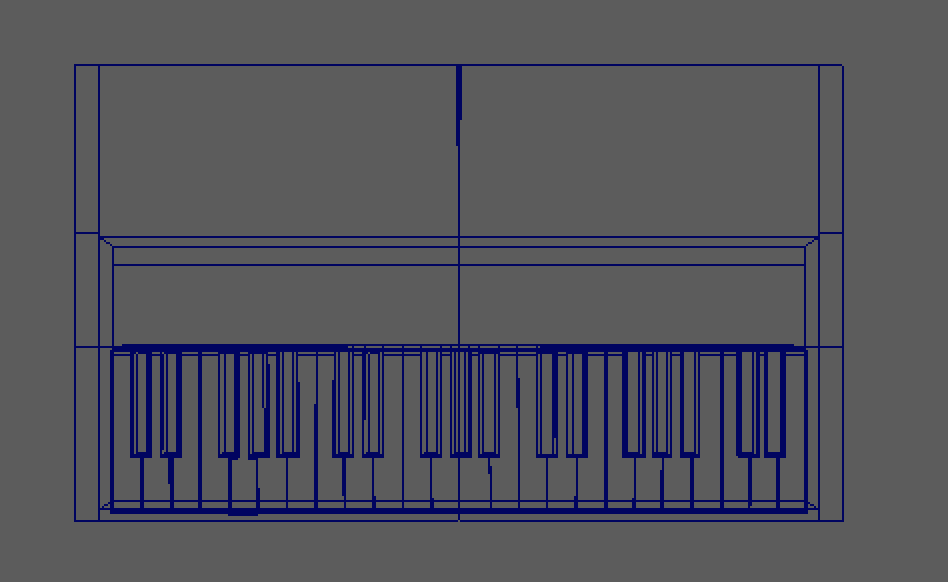
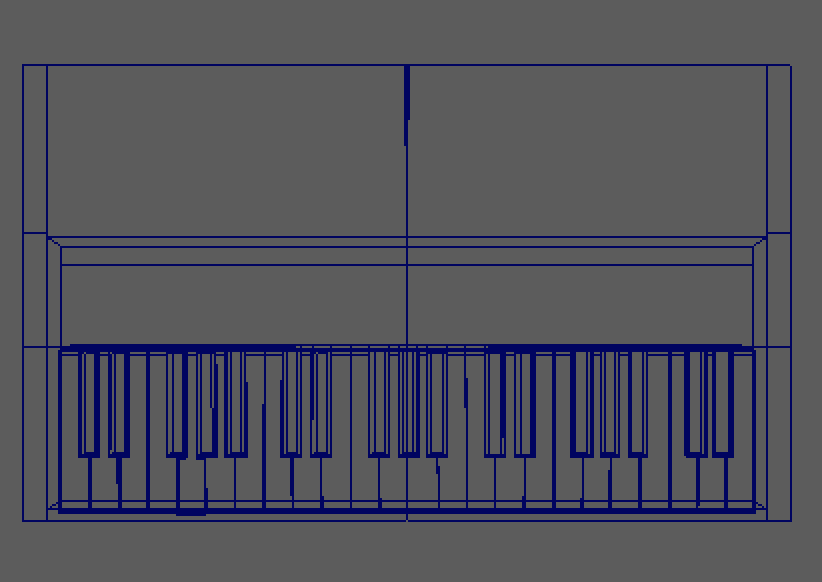
added the piano render page and connected it over
___

diff --git a/l_chun/pianorender.html b/l_chun/pianorender.html
@@ -8,7 +8,7 @@
 <style>
 .headimg2{
   margin-top: 30px;
-  background-image: url(img/water-lily-2020/lily_render1.jpg);
+  background-image: url(img/brain_house/piano/painoss2.png);
   background-repeat:no-repeat;
   padding: 250px;
   flex-wrap:nowrap;
@@ -44,38 +44,30 @@
 
 
 
- <p class="text flex"> An image I created out of my imagination of a waterlily pond. </p>
-<!--
+ <p class="text flex"> A VR piano created for a game piece of Loci House. When you press one of the keys a music note appears out of the keys.</p>
+	<br>
+	<img src="img/brain_house/piano/pain_vid.mp4"style="width:700px; ">
+	<br>
 
-<p class="text flex"> For the event, I teamed up with Anna Wong to create chocolates to enjoy. I chose to make jack-o-bears, modeled in maya and 3D printed. The print was then submerged into silicone to create a mold to pour chocolate into. </p>
+  	<p class="text flex"> The initial model was created in Maya.</p>
 
 <div class="subcontainer">
 	<div class="containleft">
-		<img src="img/halloween_choco_bears/silo_prep2.jpg"class="big">
+		<img src="img/brain_house/piano/wireframe_piano.png"class="big">
 	</div>
 	<div class="containright">
-		<img src="img/halloween_choco_bears/silo_pour2.jpg"class="big">
+		<img src="img/brain_house/piano/wireframe_piano2.png"class="big">
 	</div>
 </div>
 
-<div class="subcontainer">
-	<div class="containleft">
-		<img src="img/halloween_choco_bears/silo_first_pour.JPG"class="big">
-	</div>
-	<div class="containright">
-			<img src="img/halloween_choco_bears/silo_first_pour2.JPG"class="big">
-	</div>
-</div>
+<!-- <div class="subcontainer"> -->
+	<!-- <div class="containleft"> -->
 
-<div class="subcontainer">
-	<div class="containleft">
-		<img src="img/halloween_choco_bears/first_choco.JPG"class="big">
-	</div>
-	<div class="containright">
-		<img src="img/halloween_choco_bears/orange_choco2.jpg"class="big">
-	</div>
-</div> -->
-
+	<!-- </div> -->
+	<!-- <div class="containright"> -->
+			<!-- <img src="img/_/_"class="big"> -->
+	<!-- </div> -->
+<!-- </div> -->
 
 <!--
 <div class="subcontainer">
@@ -87,40 +79,6 @@
 			<img src="img/garden_of_people/red_maple.jpg"class="big">
 	</div>
 </div> -->
-
-
-
-
-
-
-<!--
-	<div class="subcontainer">
-		<div class="containleft">
-			<img src="img/garden_of_people/quick-cherry-tree.png"class="big">
-		</div>
-		<div class="containright">
-			Here is a screenshot of the cherry tree.
-		</div>
-	</div>
-
-	<div class="subcontainer">
-		<div class="containleft">
-			<img src="img/garden_of_people/tori-gate.png" >
-		</div>
-		<div class="containright">
-			Here is a screenshot of the main scene.
-		</div>
-	</div>
-
-	<div class="subcontainer">
-		<div class="containleft">
-			<img src="img/garden_of_people/mapletree.png">
-		</div>
-		<div class="containright">
-			Here is a screenshot of the project from another angle.
-		</div>
-	</div> -->
-
 
 
 </body>

diff --git a/l_chun/renders.html b/l_chun/renders.html
@@ -35,12 +35,12 @@
   <div class="flexbox_gallery">
 		<a href="lotus_render2020.html"><img src="../img/water-lily-2020/tnwatlily2020.jpg" class="imgmain big videohover"></a>
   	<!-- <a href="p5.html"> <img src="img/orchid_light/tnorchidled.jpg"type="img/jpg" class="imgmain big"></a> -->
-    <a href="#"> <img src="img/brain_house/piano/tnpiano.png"type="img/jpg" class="imgmain big"></a>
+    <a href="pianorender.html"> <img src="img/brain_house/piano/tnpiano.png"type="img/jpg" class="imgmain big"></a>
     <a href="lamplight.html"> <img src="img/lamp/tnlamp2.jpg" type="img/jpg" class="imgmain big"></a>
     <!-- <a href="p2.html"><img src="img/garden_of_people/elaine-flower.png" class="imgmain big"></a> -->
     <!-- <a href="p3.html"><img src="img/flowerlight/tnflower.jpg" class="imgmain big"></a> -->
     <a href="lilyreflection.html"><img src="img/lily/tnlily.jpg" class="imgmain big">
-    <a href="#"><video controls class="imgmain big">
+    <a href=""><video controls class="imgmain big">
         <source src="img/water_animation/tnwater.mp4" type="video/mp4">
       Your browser does not support the video tag.
     </video></a>

diff --git a/l_chun/3d.html b/l_chun/3d.html
@@ -64,9 +64,9 @@
 
 
 <br>
-<ul>
+
 <div class="subnavigation">Social Media Links:  <a href="https://www.instagram.com/laurenmchun/"><img src="img/insta-icon.png" style="width:35px;"></a></div>
-</ul>
+
 	<!-- <div> -->
 		<!-- this is for the social media things to impliment later -->
 		<!-- <ul class="navigation"> -->
